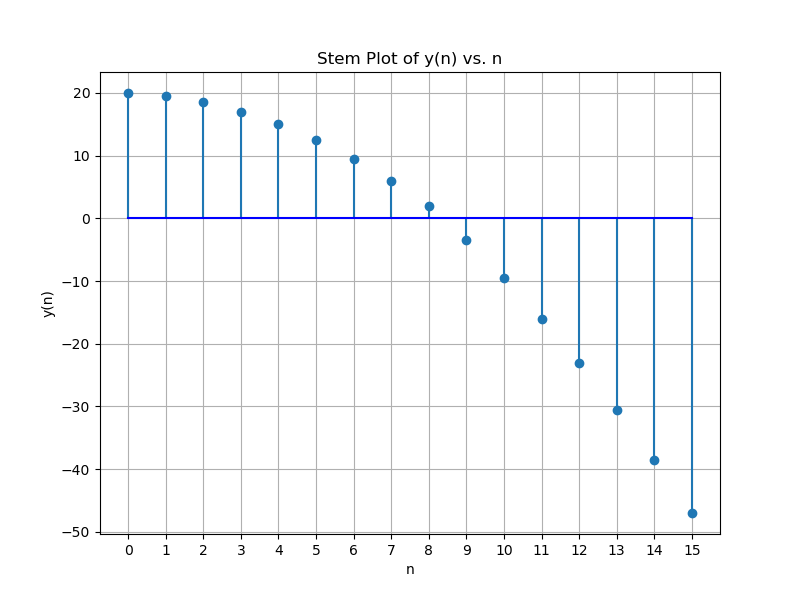
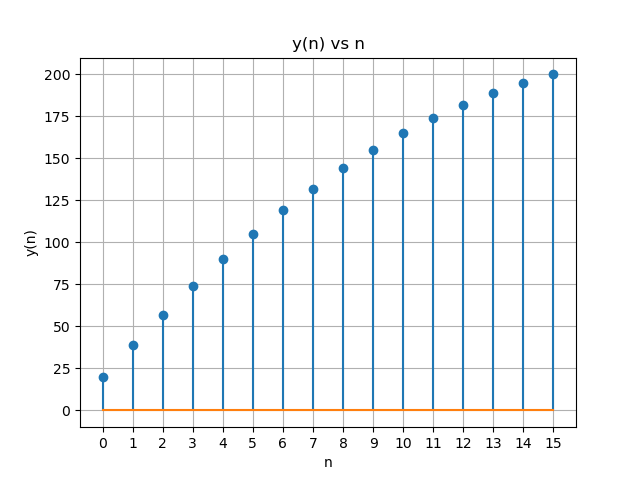
Add files via upload

diff --git a/assign2/codes/a.py b/assign2/codes/a.py
@@ -1,24 +1,23 @@
 import matplotlib.pyplot as plt
 
-# Read data from the file
-with open("output_data.txt", "r") as file:
-    lines = file.readlines()
-
-# Extracting n and y(n) values
+# Lists to store data
 n_values = []
 y_values = []
-for line in lines[1:]:  # Skip the header line
-    n, y_n = line.split()
-    n_values.append(int(n))
-    y_values.append(float(y_n))
+
+# Read data from the file
+with open("output_data.txt", "r") as file:
+    next(file)  # skip the header line
+    for line in file:
+        n, y = map(float, line.split())
+        n_values.append(int(n))
+        y_values.append(y)
 
 # Plotting
-plt.figure(figsize=(8, 6))
-plt.stem(n_values, y_values, basefmt='b-')
-plt.title("Stem Plot of y(n) vs. n")
-plt.xlabel("n")
-plt.ylabel("y(n)")
-plt.xticks(range(0,16))
+plt.stem(n_values, y_values, markerfmt='o', linefmt='-',basefmt='-')
+plt.title('y(n) vs n')
+plt.xlabel('n')
+plt.ylabel('y(n)')
+plt.xticks(range(0, 16))  # Set x-axis ticks for values from 0 to 15
 plt.grid(True)
 plt.savefig('figure_plot.png')
 plt.show()

diff --git a/assign2/codes/data_gen.c b/assign2/codes/data_gen.c
@@ -13,14 +13,12 @@ int main() {
     fprintf(file, "n     y(n)\n");
 
     // Given values
-    double x_0 = 20.0; // Initial value of x
-    double d = -1.0;   // Common difference
     double y_n;        // Value of y(n)
 
     // Generate values for n to cover the range from 0 to 15 (inclusive) with a step of 1
     for (int n = 0; n <= 15; n++) {
         // Calculate y(n)
-        y_n = (n + 1) / 2.0 * (x_0 + n * d);
+        y_n = (n + 1) * (40 - n) / 2.0;
 
         // Write to file
         fprintf(file, "%d %lf\n", n, y_n);
